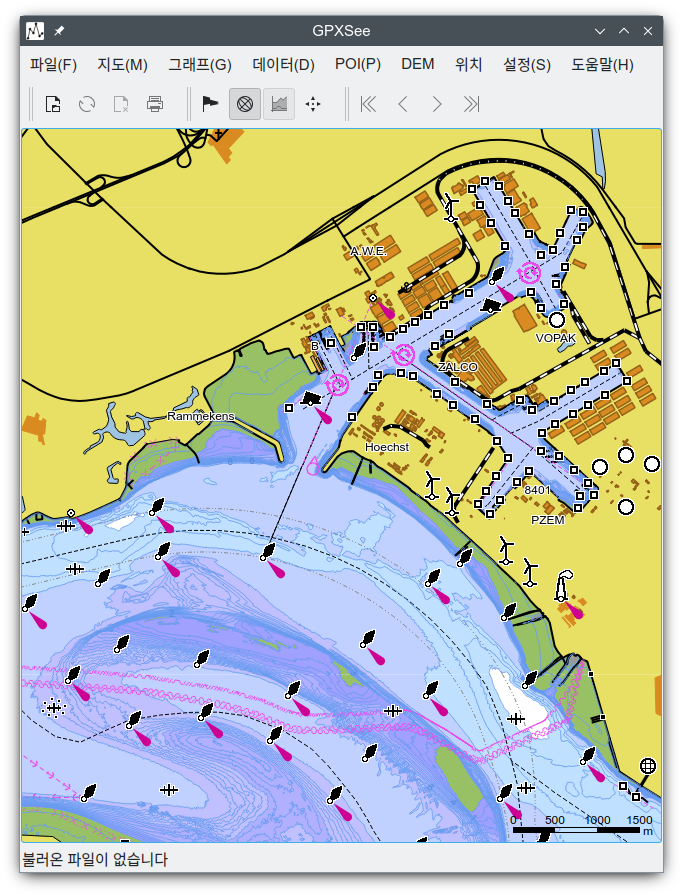
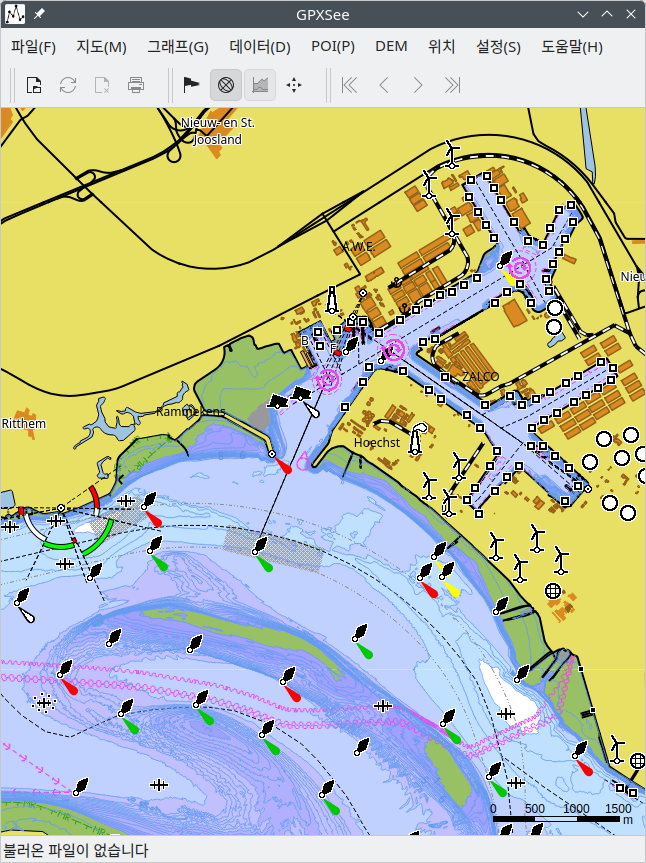
Updated ENC map screenshot

diff --git a/gallery.html b/gallery.html
@@ -129,7 +129,7 @@
             <p>GPXSee showing a Mapsforge map (TOTM style)</p>
           </li><li>
             <a href="gallery/enc.png">
-              <img src="gallery/enc_prev.png" width="200" height="262" alt=""/>
+              <img src="gallery/enc_prev.png" width="200" height="267" alt=""/>
             </a>
             <h3>Nautical charts</h3>
             <p>Electronic navigational charts (ENC); Korean localization</p>
